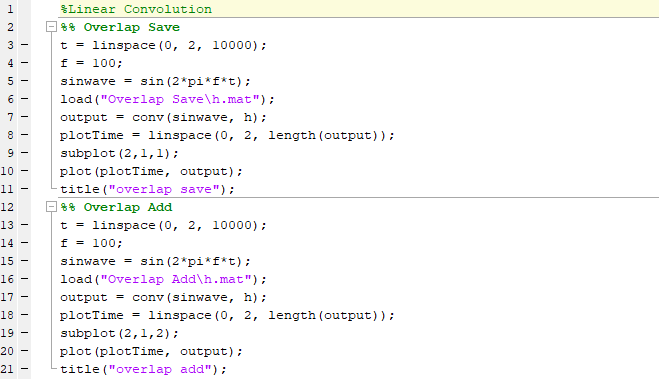
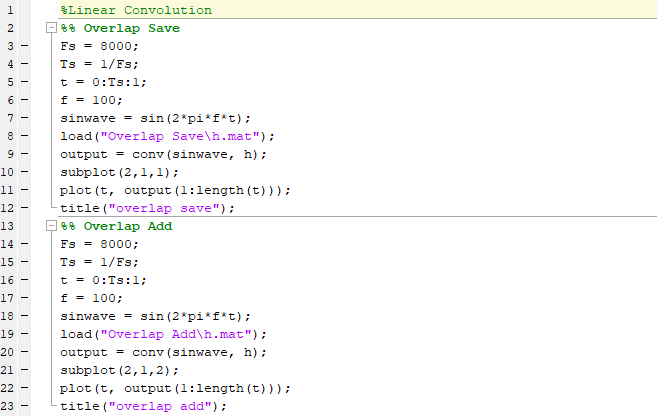
remove empty regions

Changed region(s): [[0.0609, 0.0, 1.0, 0.9868], [0.0, 0.058, 0.0304, 0.9868], [0.3349, 0.0871, 0.3957, 0.1451]]

diff --git a/linearConvolution.m b/linearConvolution.m
@@ -1,21 +1,23 @@
 %Linear Convolution
 %% Overlap Save 
-t = linspace(0, 2, 10000);
+Fs = 8000;
+Ts = 1/Fs;
+t = 0:Ts:1;
 f = 100;
 sinwave = sin(2*pi*f*t);
 load("Overlap Save\h.mat");
 output = conv(sinwave, h);
-plotTime = linspace(0, 2, length(output));
 subplot(2,1,1);
-plot(plotTime, output);
+plot(t, output(1:length(t)));
 title("overlap save");
 %% Overlap Add
-t = linspace(0, 2, 10000);
+Fs = 8000;
+Ts = 1/Fs;
+t = 0:Ts:1;
 f = 100;
 sinwave = sin(2*pi*f*t);
 load("Overlap Add\h.mat");
 output = conv(sinwave, h);
-plotTime = linspace(0, 2, length(output));
 subplot(2,1,2);
-plot(plotTime, output);
+plot(t, output(1:length(t)));
 title("overlap add");
